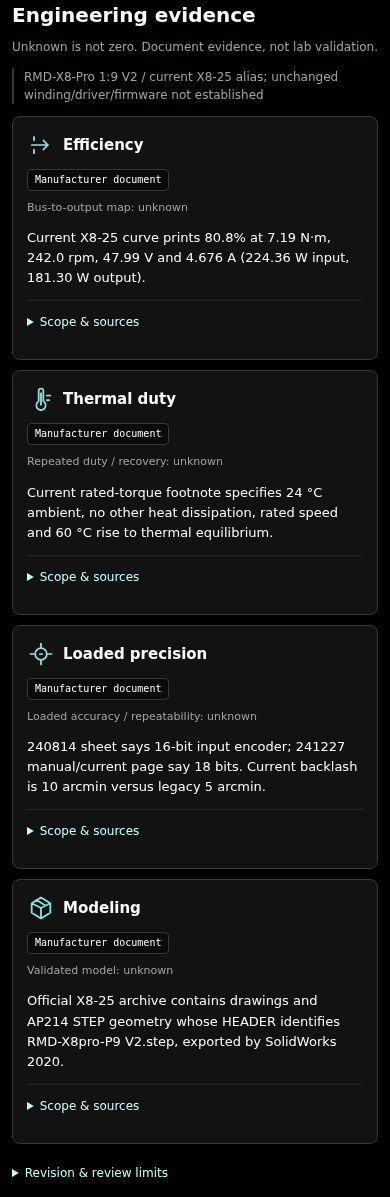
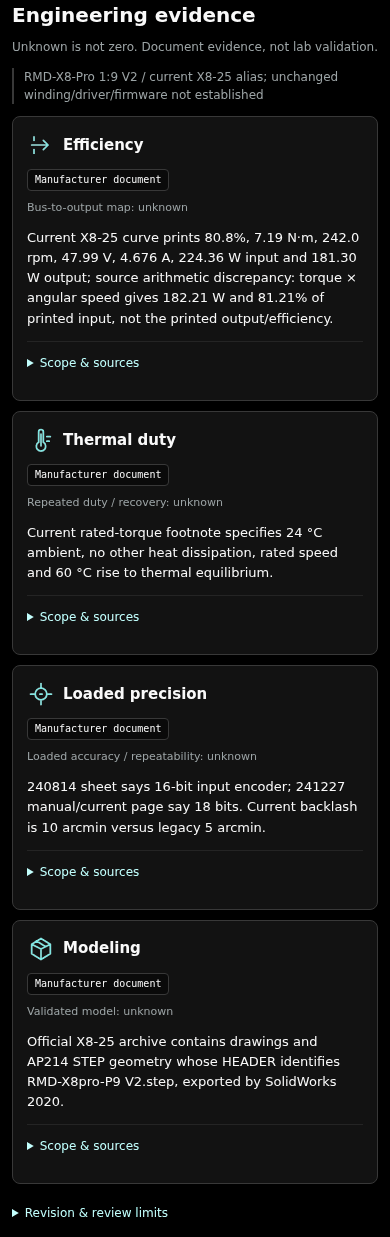
fix: qualify engineering sources and accessible evidence panels

diff --git a/src/server/agent/compare.ts b/src/server/agent/compare.ts
@@ -1,6 +1,7 @@
 import { ACTUATORS } from "@/catalog";
 import { COMPARE_SPECS, revisionNote, validatedCompareIds } from "@/catalog/compare";
 import { publicFooter, publicHeader } from "../../public-navigation";
+import { compareEngineeringSources } from "./compare-engineering";
 import { esc } from "./html/head";
 
 export function comparisonRows(search: string) {
@@ -16,7 +17,7 @@ export function compareBody(search = ""): string {
         "# Compare actuators\n\nPick 2–4 actuators in the [gallery](/actuators). Share the selected URL. Unknown means not documented, not zero. Catalog specifications are not matched-condition measurements; no winner is implied.";
     if (rows.length < 2) return intro;
     const clean = (s: string) => s.replaceAll("|", "\\|").replaceAll("\n", " ");
-    return `${intro}\n\n${rows.map((a) => `## ${a.name}\n\n${a.image_url ? `![${a.name} product photo](${a.image_url})\n\n` : "Photo unavailable.\n\n"}${revisionNote(a)}\n\n[Catalog and sources](/actuators/${a.id})`).join("\n\n")}\n\n## Specifications\n\n| Specification | ${rows.map((a) => clean(a.name)).join(" | ")} |\n| --- | ${rows.map(() => "---").join(" | ")} |\n${COMPARE_SPECS.map((spec) => `| ${spec.label} | ${rows.map((a) => clean(spec.display(a))).join(" | ")} |`).join("\n")}\n\nSensor bits do not establish loaded accuracy. CAD geometry is not a calibrated simulation model. Verify thermal conditions, duty and exact revision before engineering use.`;
+    return `${intro}\n\n${rows.map((a) => `## ${a.name}\n\n${a.image_url ? `![${a.name} product photo](${a.image_url})\n\n` : "Photo unavailable.\n\n"}${revisionNote(a)}\n\n[Catalog and sources](/actuators/${a.id})`).join("\n\n")}\n\n## Specifications\n\n| Specification | ${rows.map((a) => clean(a.name)).join(" | ")} |\n| --- | ${rows.map(() => "---").join(" | ")} |\n${COMPARE_SPECS.map((spec) => `| ${spec.label} | ${rows.map((a) => clean(spec.display(a))).join(" | ")} |`).join("\n")}\n\nSensor bits do not establish loaded accuracy. CAD geometry is not a calibrated simulation model. Verify thermal conditions, duty and exact revision before engineering use.${compareEngineeringSources(rows, "md")}`;
 }
 export function compareVisual(search: string): string {
     const rows = comparisonRows(search);
@@ -24,5 +25,5 @@ export function compareVisual(search: string): string {
         rows.length < 2
             ? '<p>Pick 2–4 actuators in the <a href="/actuators">gallery</a>. A missing or invalid selection is not compared.</p>'
             : `<div class="compare-products">${rows.map((a) => `<article><a href="/actuators/${esc(a.id)}">${a.image_url ? `<img src="${esc(a.image_url)}" alt="${esc(a.name)} product photo" width="320" height="320">` : '<div class="compare-no-photo">Photo unavailable</div>'}<h2>${esc(a.name)}</h2></a><p>${esc(revisionNote(a))}</p><a href="/actuators/${esc(a.id)}">Catalog and sources</a></article>`).join("")}</div><div class="compare-spec-scroll" role="region" aria-label="Comparison specifications" tabindex="0"><table class="compare-specs"><caption>Catalog values: verify exact revision and conditions</caption><thead><tr><th scope="col">Specification</th>${rows.map((a) => `<th scope="col">${esc(a.name)}</th>`).join("")}</tr></thead><tbody>${COMPARE_SPECS.map((spec) => `<tr><th scope="row">${esc(spec.label)}</th>${rows.map((a) => `<td>${esc(spec.display(a))}</td>`).join("")}</tr>`).join("")}</tbody></table></div>`;
-    return `<div class="compare-page">${publicHeader("/compare")}<main><h1>Compare actuators</h1><p>Share this URL. Unknown means not documented, not zero. No winner is implied.</p>${content}<p>Sensor bits are not loaded accuracy. CAD geometry is not a calibrated simulation model. Thermal duty and efficiency require matched operating conditions.</p></main>${publicFooter()}</div>`;
+    return `<div class="compare-page">${publicHeader("/compare")}<main><h1>Compare actuators</h1><p>Share this URL. Unknown means not documented, not zero. No winner is implied.</p>${content}${rows.length >= 2 ? compareEngineeringSources(rows, "html") : ""}<p>Sensor bits are not loaded accuracy. CAD geometry is not a calibrated simulation model. Thermal duty and efficiency require matched operating conditions.</p></main>${publicFooter()}</div>`;
 }

diff --git a/frontend/tests/engineering-evidence.test.tsx b/frontend/tests/engineering-evidence.test.tsx
@@ -6,6 +6,18 @@ import { readFileSync } from "node:fs";
 import { ExplodedView } from "../src/pages/ExplodedView";
 import { EngineeringEvidencePanel } from "../src/components/EngineeringEvidencePanel";
 
+import { DetailPanel } from "../src/components/DetailPanel";
+import { ACTUATORS } from "../src/lib/data";
+
+test("MYACT product power row preserves the catalog value beside its revision conflict", () => {
+    const actuator = ACTUATORS.find(a => a.id === "myactuator-rmd-x8-pro-v2")!;
+    const view = render(<DetailPanel actuator={actuator} onClose={() => {}} />);
+    const power = Array.from(view.container.querySelectorAll(".spec")).find(row => row.querySelector("dt")?.textContent === "Power")!;
+    expect(power.querySelector("dd")?.textContent).toContain("166 W");
+    expect(power.querySelector("dd small")?.textContent).toContain("125 W");
+    expect(power.querySelector("dd small")?.textContent).toContain("Revision conflict");
+});
+
 import { engineeringEvidenceFor } from "../../src/catalog/engineering-evidence";
 
 const researchedIds = ["cubemars-ak80-9", "xiaomi-cybergear", "myactuator-rmd-x8-pro-v2"];
@@ -81,10 +93,26 @@ test("all three researched actuators render real shared evidence with exact sour
     }
 });
 
+test("unreviewed models do not inherit reviewed dossier gaps in compact or full panels", () => {
+    for (const compact of [false, true]) {
+        const view = render(<EngineeringEvidencePanel id="unresearched-actuator" compact={compact} />);
+        expect(view.getAllByText("Not reviewed")).toHaveLength(4);
+        for (const card of view.container.querySelectorAll(".engineering-card")) {
+            expect(card.querySelector(".engineering-gap")?.textContent).toBe("No reviewed model-specific evidence.");
+            expect(card.querySelector(".engineering-gap")?.closest("details") === null).toBe(true);
+            expect(card.textContent).not.toContain("Not established in the reviewed sources.");
+        }
+        for (const gap of ["Bus-to-output map: unknown", "Repeated duty / recovery: unknown", "Loaded accuracy / repeatability: unknown", "Validated model: unknown"]) {
+            expect(view.container.textContent).not.toContain(gap);
+        }
+        cleanup();
+    }
+});
+
 test("missing evidence stays unknown with labeled glyphs and native disclosures", () => {
     const view = render(<EngineeringEvidencePanel id="unresearched-actuator" />);
     expect(view.container.querySelectorAll(".engineering-card")).toHaveLength(4);
-    expect(view.getAllByText("Unknown")).toHaveLength(4);
+    expect(view.getAllByText("Not reviewed")).toHaveLength(4);
     for (const name of ["Efficiency", "Thermal duty", "Loaded precision", "Modeling"]) {
         expect(view.getByRole("img", { name: `${name} topic` }).tagName.toLowerCase()).toBe("svg");
     }
@@ -94,7 +122,16 @@ test("missing evidence stays unknown with labeled glyphs and native disclosures"
     expect(view.container.textContent).not.toContain("winner");
 });
 
+test("comparison evidence regions have distinct actual model names", () => {
+    (window as unknown as { happyDOM: { setURL(url: string): void } }).happyDOM.setURL(`http://localhost/compare?compare=${researchedIds.join(",")}`);
+    const view = render(<Compare />);
+    for (const id of researchedIds) {
+        const name = ACTUATORS.find(a => a.id === id)!.name;
+        expect(view.queryAllByRole("region", { name: `Engineering evidence for ${name}` })).toHaveLength(1);
+    }
+});
+
 test("selected researched product mounts a compact engineering overview", () => {
     const view = render(<ExplodedView id="cubemars-ak80-9" />);
-    expect(view.queryByRole("region", { name: "Engineering evidence" }) !== null).toBe(true);
+    expect(view.queryByRole("region", { name: `Engineering evidence for ${ACTUATORS.find(a => a.id === "cubemars-ak80-9")!.name}` }) !== null).toBe(true);
 });

diff --git a/frontend/src/components/EngineeringEvidencePanel.tsx b/frontend/src/components/EngineeringEvidencePanel.tsx
@@ -1,3 +1,4 @@
+import { ACTUATORS } from "../lib/data";
 import { engineeringEvidenceFor } from "../../../src/catalog/engineering-evidence";
 
 const STATUS = { manufacturer: "Manufacturer document", research: "Exploratory report", unknown: "Unknown" };
@@ -20,7 +21,7 @@ export function EngineeringEvidencePanel({ id, compact = false }: { id: string; 
     const evidence = engineeringEvidenceFor(id);
     const Heading = compact ? "h3" : "h2";
     const TopicHeading = compact ? "h4" : "h3";
-    return <section className={`engineering-evidence${compact ? " engineering-evidence--compact" : ""}`} aria-label="Engineering evidence" data-actuator-id={id}>
+    return <section className={`engineering-evidence${compact ? " engineering-evidence--compact" : ""}`} aria-label={`Engineering evidence for ${ACTUATORS.find(a => a.id === id)?.name ?? id}`} data-actuator-id={id}>
         <header><Heading>Engineering evidence</Heading>{!compact && <p>Unknown is not zero. Document evidence, not lab validation.</p>}</header>
         {evidence && <p className="engineering-revision">{evidence.revision}</p>}
         <div className="engineering-grid">
@@ -32,13 +33,13 @@ export function EngineeringEvidencePanel({ id, compact = false }: { id: string; 
                         <svg role="img" aria-label={`${topic.label} topic`} viewBox="0 0 24 24" fill="none" stroke="currentColor" strokeWidth="1.5" strokeLinecap="round" strokeLinejoin="round"><path d={topic.path} /></svg>
                         <TopicHeading>{topic.label}</TopicHeading>
                     </div>
-                    <span className="engineering-status">{STATUS[status]}</span>
-                    <p className="engineering-gap">{LIMITS[topic.key]}</p>
+                    <span className="engineering-status">{item ? STATUS[status] : "Not reviewed"}</span>
+                    <p className="engineering-gap">{item ? LIMITS[topic.key] : "No reviewed model-specific evidence."}</p>
                     {!compact && <p className="engineering-summary">{item?.summary ?? "No reviewed model-specific evidence."}</p>}
                     <details>
                         <summary>Scope & sources</summary>
                         {compact && <p className="engineering-summary">{item?.summary ?? "No reviewed model-specific evidence."}</p>}
-                        <p>{item?.scope ?? "Not established in the reviewed sources."}</p>
+                        <p>{item?.scope ?? "No model-specific source review has been completed."}</p>
                         {!!item?.sources.length && <ul className="engineering-sources">{item.sources.map(source => <li key={`${source.url}-${source.locator}`}>
                             <a href={source.url}>{source.label}</a><small>{source.locator}</small>
                         </li>)}</ul>}

diff --git a/tests/server/compare-engineering-sources.test.ts b/tests/server/compare-engineering-sources.test.ts
@@ -1,0 +1,45 @@
+import { expect, test } from "bun:test";
+import { ACTUATORS } from "@/catalog";
+import { COMPARE_SPECS } from "@/catalog/compare";
+import approved from "../catalog/engineering-approved.json";
+import { get } from "./agent-helpers";
+
+const ids = ["cubemars-ak80-9", "xiaomi-cybergear", "myactuator-rmd-x8-pro-v2"];
+
+test("no-JS comparison keeps exact sources and locators associated with each model and topic", async () => {
+    const query = `?compare=${ids.join(",")}`;
+    const html = await (await get(`/compare${query}`)).text();
+    const md = await (await get(`/compare.md${query}`)).text();
+    for (const id of ids) {
+        const a = ACTUATORS.find((record) => record.id === id);
+        if (!a) throw new Error(`Missing catalog model ${id}`);
+        const frozen = approved[id as keyof typeof approved].evidence;
+        for (const [topic, item] of Object.entries(frozen.topics)) {
+            const marker = `<details data-actuator-id="${id}" data-topic="${topic}">`;
+            expect(html).toContain(marker);
+            const detail = html.slice(
+                html.indexOf(marker),
+                html.indexOf("</details>", html.indexOf(marker)),
+            );
+            expect(detail).toContain(
+                `<summary>${a.name.replaceAll("&", "&amp;")} / ${topic}: scope &amp; sources</summary>`,
+            );
+            const heading = `### ${a.name} / ${topic}`;
+            expect(md).toContain(heading);
+            const section = md.slice(md.indexOf(heading)).split("\n\n### ")[0];
+            for (const source of item.sources) {
+                expect(detail).toContain(
+                    `href="${source.url.replaceAll("&", "&amp;")}"`,
+                );
+                expect(detail).toContain(source.locator.replaceAll("&", "&amp;"));
+                expect(section).toContain(`[${source.label}](${source.url})`);
+                expect(section).toContain(source.locator);
+            }
+        }
+        for (const spec of COMPARE_SPECS) {
+            const cell = spec.display(a);
+            expect(cell.length).toBeLessThan(240);
+            expect(cell).not.toContain("https://");
+        }
+    }
+});

diff --git a/tests/catalog/engineering-evidence.test.ts b/tests/catalog/engineering-evidence.test.ts
@@ -9,6 +9,18 @@ test("production browser build copies the transitive engineering registry", () =
     const buildStage = dockerfile.split("FROM oven/bun:1 AS runtime")[0];
     expect(buildStage).toContain("src/catalog/engineering-evidence.ts");
 });
+test("MYACT printed curve arithmetic discrepancy is disclosed without correcting source values", async () => {
+    const { engineeringEvidenceFor } = await import("@/catalog/engineering-evidence");
+    const item = engineeringEvidenceFor("myactuator-rmd-x8-pro-v2")?.topics.efficiency;
+    if (!item) throw new Error("Missing MYACT efficiency evidence");
+    expect(item.summary).toContain("source arithmetic discrepancy");
+    expect(item.summary).toContain("182.21 W");
+    expect(item.summary).toContain("81.21%");
+    expect(item.summary).toContain("181.30 W");
+    expect(item.summary).toContain("80.8%");
+    expect(item.scope).toContain("not a coherent verified operating point");
+});
+
 import approved from "./engineering-approved.json";
 
 test("source locators distinguish family driver tables and STEP HEADER identity", async () => {
@@ -47,7 +59,7 @@ test("researched evidence is revision scoped without converting unknowns to vali
     expect(cg?.topics.modeling.status).toBe("research");
     const my = engineeringEvidenceFor("myactuator-rmd-x8-pro-v2");
     expect(my?.topics.efficiency.summary).toBe(
-        "Current X8-25 curve prints 80.8% at 7.19 N·m, 242.0 rpm, 47.99 V and 4.676 A (224.36 W input, 181.30 W output).",
+        "Current X8-25 curve prints 80.8%, 7.19 N·m, 242.0 rpm, 47.99 V, 4.676 A, 224.36 W input and 181.30 W output; source arithmetic discrepancy: torque × angular speed gives 182.21 W and 81.21% of printed input, not the printed output/efficiency.",
     );
     expect(my?.topics.efficiency.scope).toContain("legacy catalog unit");
     expect(my?.topics.thermal.scope).toContain("not the legacy 13 N·m rating");

diff --git a/src/server/agent/compare-engineering.ts b/src/server/agent/compare-engineering.ts
@@ -1,0 +1,35 @@
+import type { CompareActuator } from "@/catalog/compare";
+import { engineeringEvidenceFor } from "@/catalog/engineering-evidence";
+import { esc } from "./html/head";
+import { bullets, mdLink, mdText } from "./md";
+
+export function compareEngineeringSources(
+    rows: CompareActuator[],
+    format: "html" | "md",
+): string {
+    const sections = rows.flatMap((a) => {
+        const evidence = engineeringEvidenceFor(a.id);
+        if (!evidence) return [];
+        return Object.entries(evidence.topics).map(([topic, item]) => {
+            const title = `${a.name} / ${topic}`;
+            if (format === "md")
+                return [
+                    `### ${mdText(title)}`,
+                    `**Revision scope:** ${mdText(evidence.revision)}`,
+                    mdText(item.summary),
+                    `**Scope / unknowns:** ${mdText(item.scope)}`,
+                    bullets(
+                        item.sources.map(
+                            (source) =>
+                                `${mdLink(source.label, source.url)}: ${mdText(source.locator)}`,
+                        ),
+                    ),
+                ].join("\n\n");
+            return `<details data-actuator-id="${esc(a.id)}" data-topic="${esc(topic)}"><summary>${esc(title)}: scope &amp; sources</summary><p>${esc(evidence.revision)}</p><p>${esc(item.summary)}</p><p>${esc(item.scope)}</p><ul>${item.sources.map((source) => `<li><a href="${esc(source.url)}">${esc(source.label)}</a>: ${esc(source.locator)}</li>`).join("")}</ul></details>`;
+        });
+    });
+    if (!sections.length) return "";
+    return format === "md"
+        ? `\n\n## Engineering scope & sources\n\n${sections.join("\n\n")}`
+        : `<section aria-label="Engineering scope and sources"><h2>Engineering scope &amp; sources</h2>${sections.join("")}</section>`;
+}

diff --git a/src/catalog/engineering-evidence.ts b/src/catalog/engineering-evidence.ts
@@ -176,8 +176,8 @@ const evidence: Record<string, EngineeringEvidence> = {
             efficiency: {
                 status: "manufacturer",
                 summary:
-                    "Current X8-25 curve prints 80.8% at 7.19 N·m, 242.0 rpm, 47.99 V and 4.676 A (224.36 W input, 181.30 W output).",
-                scope: "Current characteristic sweep only; applicability to the legacy catalog unit is unconfirmed. Electrical metering location, driver/cable loss boundary, thermal state, dwell and uncertainty are unspecified; not a verified bus-to-output map or continuous-duty guarantee.",
+                    "Current X8-25 curve prints 80.8%, 7.19 N·m, 242.0 rpm, 47.99 V, 4.676 A, 224.36 W input and 181.30 W output; source arithmetic discrepancy: torque × angular speed gives 182.21 W and 81.21% of printed input, not the printed output/efficiency.",
+                scope: "Printed values are retained, not corrected; not a coherent verified operating point. Current characteristic sweep only; applicability to the legacy catalog unit is unconfirmed. Electrical metering location, driver/cable loss boundary, thermal state, dwell and uncertainty are unspecified; not a verified bus-to-output map or continuous-duty guarantee.",
                 sources: [
                     source(
                         "X8-25 product archive",

diff --git a/src/catalog/compare.ts b/src/catalog/compare.ts
@@ -53,7 +53,7 @@ function engineeringDisplay(a: CompareActuator, topic: EngineeringTopic): string
     const evidence = engineeringEvidenceFor(a.id);
     if (!evidence) return UNKNOWN;
     const item = evidence.topics[topic];
-    const source = "Source: product evidence and conditions.";
+    const source = "Source: model/topic scope & sources.";
     if (topic === "thermal") {
         const condition =
             a.id === "xiaomi-cybergear"

diff --git a/frontend/src/components/DetailPanel.tsx b/frontend/src/components/DetailPanel.tsx
@@ -15,6 +15,7 @@ interface Spec {
 }
 
 const evidenceFields: Record<string, string> = {
+    Power: "power_w",
     Weight: "weight_g", Encoder: "encoder", "Torque density": "torque_density_nm_per_kg",
     Backdrivable: "backdrivable", Backlash: "backlash_arcmin",
 };
